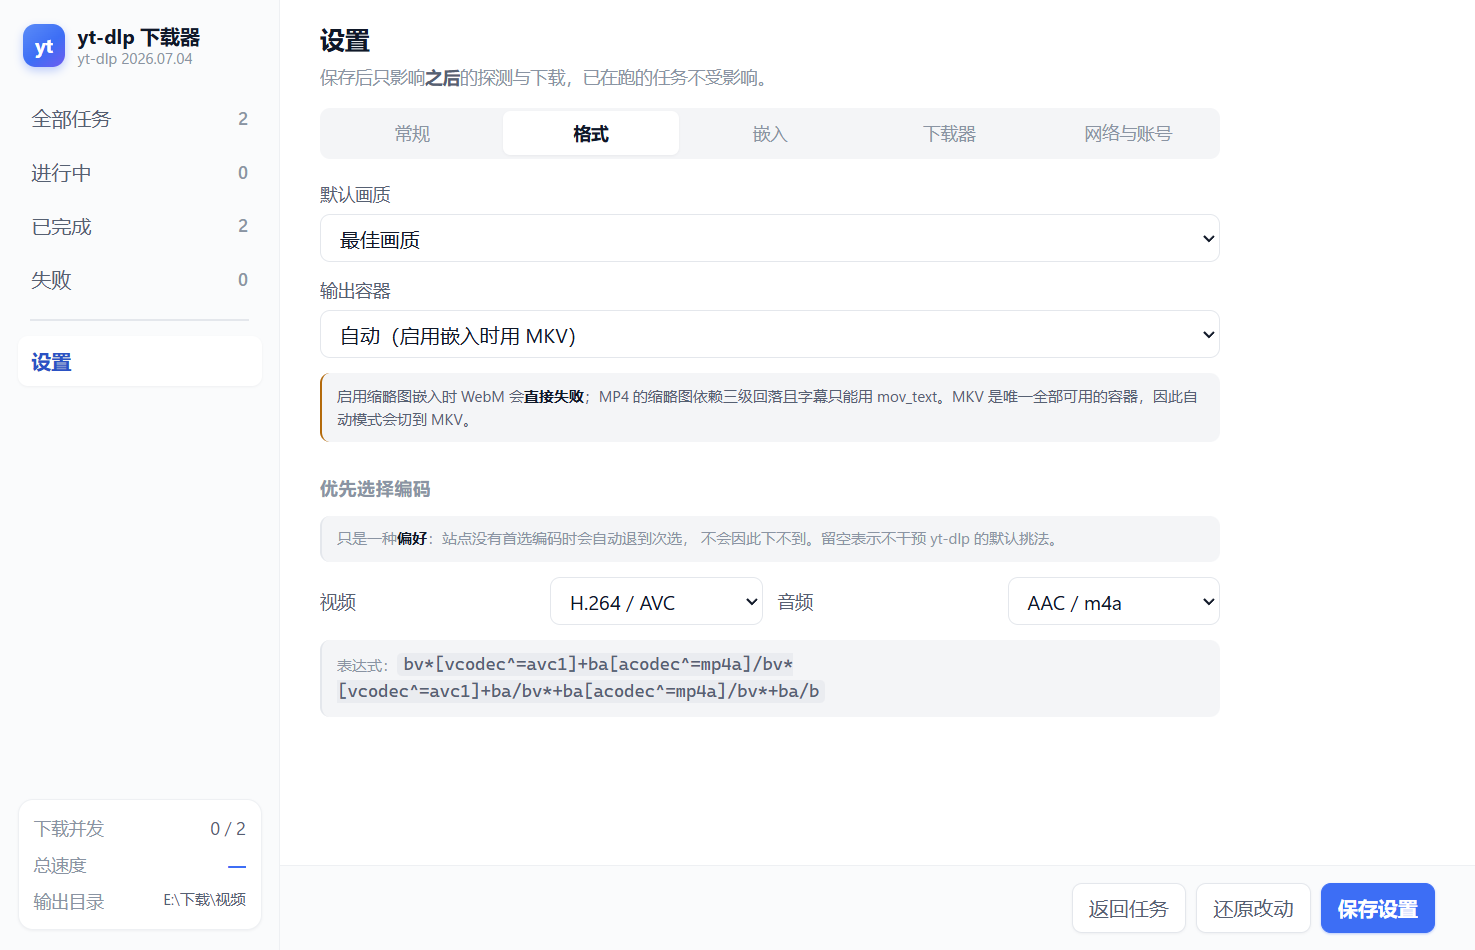
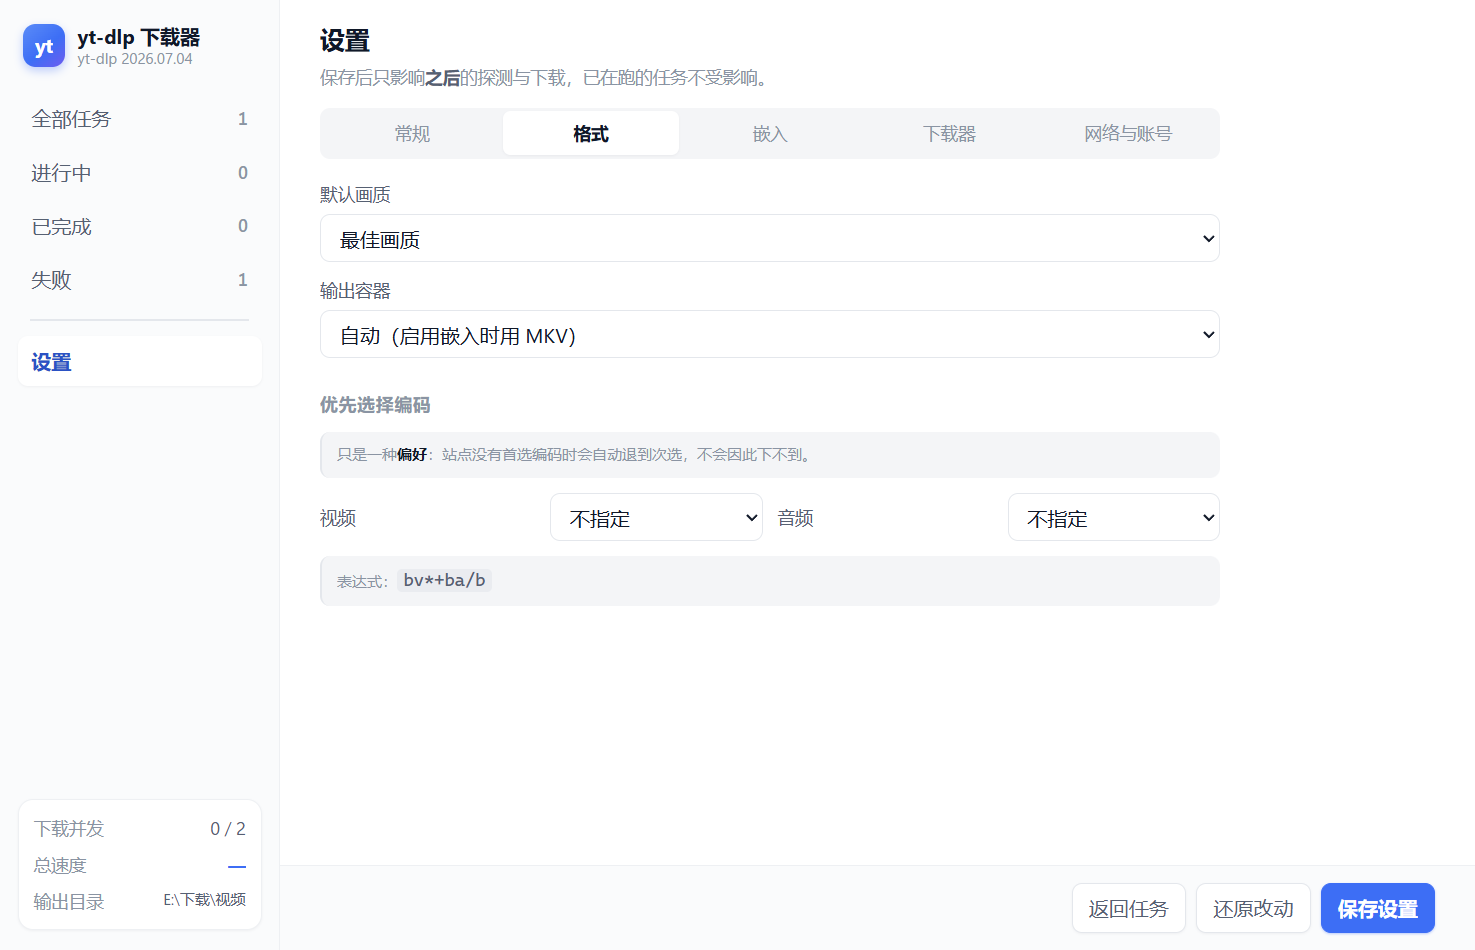
设置页与任务详情：精简说明文字
原则：删掉「解释为什么这么设计 / 讲 yt-dlp 内部机制」的长段落，
保留两类——(1) 不写会让用户误判或丢数据的警告，(2) 字段下的短提示。
按此删了 6 段，并把 2 段改短。

删掉的长段落：
- 常规「探测请求轻、可高；下载重、易触发限流，两者必须分开。」
- 格式「启用缩略图嵌入时 WebM 会直接失败；MP4 的缩略图依赖三级回落…」
- 嵌入「--embed-metadata 默认还会嵌入章节与 infojson…」
- 下载器「YouTube 的 n-sig 挑战需要 JS 运行时。yt-dlp 不会自动启用…」
- 下载器「随包分发的第三方程序，查找顺序与 yt-dlp 一致…」
- 下载器「换掉一个 yt-dlp.exe 就能修好全部站点问题…」
另去掉 2 处理由式小字（「比全局降并发更有效」）和一句指向外部文档的话。

改短的：
- aria2c 警告 → 「进度改由 aria2c 上报，精度略低；遇到不支持 Range 的服务器会
  失败，失败时自动回落原生下载。」
- 格式页编码偏好说明 → 只留「站点没有首选编码时会自动退到次选，不会因此下不到。」

**保留的警告**（不写会误判/丢数据）：
- 字幕嵌入失败时 yt-dlp 仍返回成功，要去看「后处理告警」
- 归档命中显示「已跳过」而非「已完成」（两者退出码都是 0）
- Chromium 系浏览器读不了 cookie / profile 相关警告
- 「仅移除记录不足以重新下载，成品文件仍在磁盘时会直接跳过」
- 断点续传依赖临时目录稳定不变

**改条件显示**：原来那段「WebM 装不下缩略图 / MP4 字幕只能用 mov_text」是常驻的，
删掉会丢掉一个「这么配会直接失败」的警告。改成只在真的会出问题的组合下出现
（container=webm 且启用缩略图，或 container=mp4 且启用字幕），平时不占版面。
实测过：容器切到 WebM 时告警出现，「还原改动」后消失。

重录 4 张因此过期的截图：settings-general / settings-format /
settings-downloader / filename-template（都是真实应用，非演示数据）。

settings-cookies.png 未动（那个标签页没改）。
task-detail.png 仍未重录 —— 本机代理不通，唯一那条真实任务停在 failed 状态，
重截会带上「Unable to download API page」的错误框，不如不换。

vue-tsc 与 vite build 通过。

diff --git a/src/components/SettingsPanel.vue b/src/components/SettingsPanel.vue
@@ -770,7 +770,6 @@ const templateWarning = computed(() => {
               </div>
               <p class="note">
                 字段名拼错时 yt-dlp <strong>不会报错</strong>，会静默填成 <code>NA</code>。
-                完整清单见 yt-dlp 文档的「Output Template」一节。
               </p>
             </details>
           </div>
@@ -780,7 +779,6 @@ const templateWarning = computed(() => {
           </label>
 
           <h3>并发</h3>
-          <p class="note">探测请求轻、可高；下载重、易触发限流，两者必须分开。</p>
           <label class="field inline">
             <span>探测并发</span>
             <input v-model.number="s.probeConcurrency" type="number" min="1" max="16" />
@@ -790,7 +788,7 @@ const templateWarning = computed(() => {
             <input v-model.number="s.downloadConcurrency" type="number" min="1" max="8" />
           </label>
           <label class="field inline">
-            <span>同一站点并发<em>比全局降并发更有效</em></span>
+            <span>同一站点并发</span>
             <input v-model.number="s.perHostConcurrency" type="number" min="1" max="4" />
           </label>
         </section>
@@ -835,15 +833,17 @@ const templateWarning = computed(() => {
               <option value="webm">WebM</option>
             </select>
           </label>
-          <p class="note warn">
-            启用缩略图嵌入时 WebM 会<strong>直接失败</strong>；MP4 的缩略图依赖三级回落且字幕只能用
-            mov_text。MKV 是唯一全部可用的容器，因此自动模式会切到 MKV。
+          <!-- 只在**真的会失败**的组合下提示，平时不占版面 -->
+          <p v-if="s.container === 'webm' && s.embed.thumbnail" class="note warn">
+            WebM 装不下缩略图，这样组合会<strong>直接失败</strong>——请改用 MKV 或「自动」。
+          </p>
+          <p v-else-if="s.container === 'mp4' && s.embed.subs" class="note warn">
+            MP4 的字幕只能用 mov_text；想要完整字幕样式请改用 MKV。
           </p>
 
           <h3>优先选择编码</h3>
           <p class="note">
-            只是一种<strong>偏好</strong>：站点没有首选编码时会自动退到次选，
-            不会因此下不到。留空表示不干预 yt-dlp 的默认挑法。
+            只是一种<strong>偏好</strong>：站点没有首选编码时会自动退到次选，不会因此下不到。
           </p>
           <div class="codec-grid">
             <label class="field inline">
@@ -906,9 +906,6 @@ const templateWarning = computed(() => {
             <span>嵌入元数据</span>
           </label>
           <template v-if="s.embed.metadata">
-            <p class="note">
-              --embed-metadata 默认还会嵌入章节与 infojson，这里已显式关闭，可按需开启。
-            </p>
             <label class="check sub">
               <input v-model="s.embed.chapters" type="checkbox" />
               <span>同时嵌入章节</span>
@@ -931,8 +928,7 @@ const templateWarning = computed(() => {
             <span>使用 aria2c 多线程下载<em>高级选项，默认关闭</em></span>
           </label>
           <p class="note warn">
-            aria2c 会让 yt-dlp 完全不上报进度（实测 0 条），进度改为解析 aria2c 自身的输出；
-            且它对不支持 Range 的服务器会直接失败。失败时会自动回落原生下载。
+            进度改由 aria2c 上报，精度略低；遇到不支持 Range 的服务器会失败，失败时自动回落原生下载。
           </p>
 
           <h3>下载归档</h3>
@@ -962,10 +958,6 @@ const templateWarning = computed(() => {
           </p>
 
           <h3>JS 运行时</h3>
-          <p class="note warn">
-            YouTube 的 n-sig 挑战需要 JS 运行时。yt-dlp<strong>不会自动启用</strong>已安装的
-            ——不给的话会返回「需要重载页面」或只给预览图。留空即自动检测。
-          </p>
           <div class="js-list">
             <span
               v-for="c in jsInfo?.candidates ?? []"
@@ -987,11 +979,6 @@ const templateWarning = computed(() => {
           </label>
 
           <h3>aria2c（多线程下载器）</h3>
-          <p class="note">
-            随包分发的第三方程序，查找顺序与 yt-dlp 一致：
-            <strong>随包副本 → AppData → PATH</strong>。
-            它让一个文件分多段并行下载，速度通常明显更快。
-          </p>
           <p v-if="ariaInfo?.found" class="sub-line">
             {{ ariaInfo.version }}<br />
             <code class="mono">{{ ellipsizePath(ariaInfo.path ?? '', 76) }}</code>
@@ -1002,11 +989,6 @@ const templateWarning = computed(() => {
           </p>
 
           <h3>yt-dlp 版本</h3>
-          <p class="note">
-            换掉一个 <code>yt-dlp.exe</code> 就能修好全部站点问题，
-            <strong>不需要重新发版应用</strong>。升级副本写在 AppData，
-            不需要管理员权限，也不会被安装器的「修复」还原。
-          </p>
           <div class="row-inline test-row">
             <button class="btn sm" :disabled="updateBusy" @click="checkUpdate">
               {{ updateBusy ? '处理中…' : '检查更新' }}

diff --git a/src/components/TaskDetail.vue b/src/components/TaskDetail.vue
@@ -61,14 +61,12 @@ const rows = computed(() => {
     {
       k: '预估大小',
       v: t.value.sizeEstimate ? fmtBytes(t.value.sizeEstimate) : '—',
-      hint:
-        '由解析结果推算：按当前格式表达式实际会选中的音视频轨体积之和。' +
-        '合并、嵌入字幕/缩略图后成品通常会更大。',
+      hint: '估算值；合并音视频轨、嵌入字幕后成品通常更大',
     },
     {
       k: '实际大小',
       v: t.value.sizeActual ? fmtBytes(t.value.sizeActual) : '—',
-      hint: t.value.sizeActual ? '下载完成后的成品文件大小（读自磁盘）' : '下载完成后才有',
+      hint: t.value.sizeActual ? '成品文件的实际大小' : '下载完成后才有',
     },
     {
       k: '进度来源',
